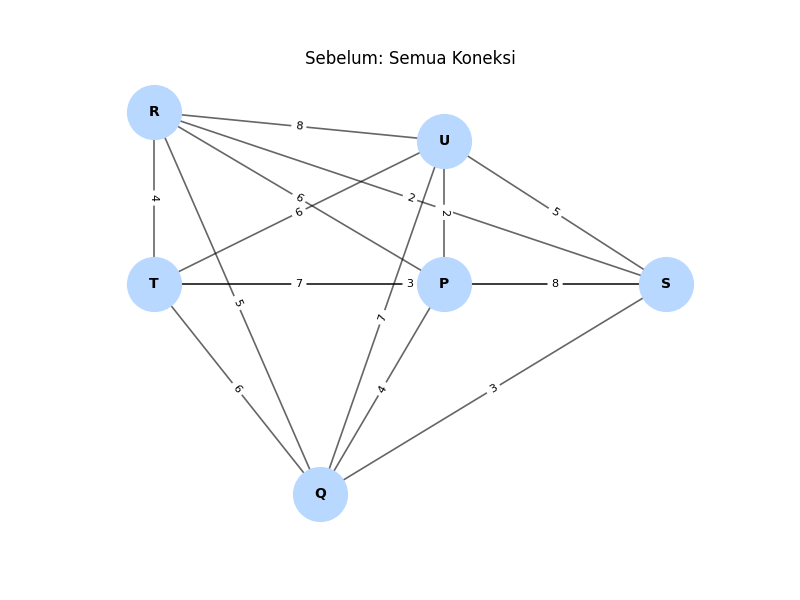
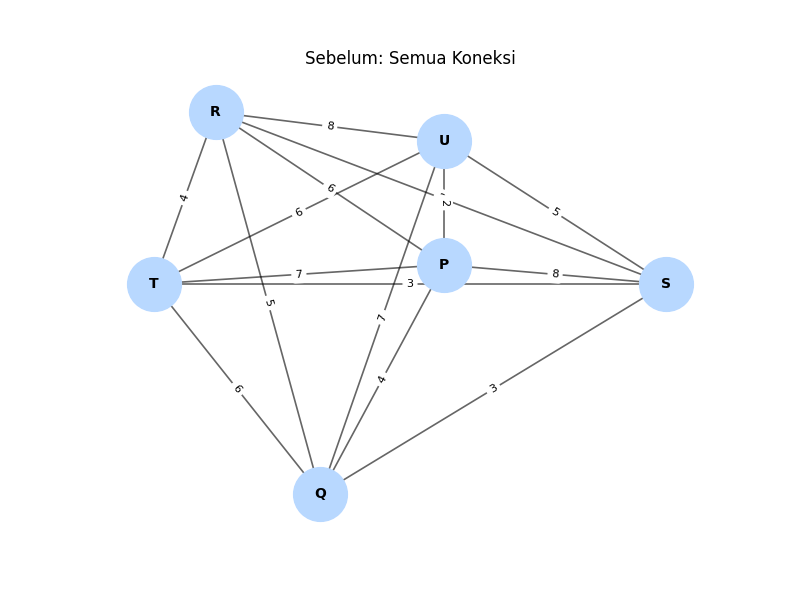
update figure 1 & 2 dan perbaikan kode

diff --git a/SA.py b/SA.py
@@ -30,10 +30,10 @@ for (a,b), d in w.items():
 
 # 3. Posisi node
 pos = {
-    'R': (-3.5, 2.2),    # Kiri atas (Futsal)
+    'R': (-2.5, 2.2),    # Kiri atas (Futsal)
     'U': (1.2, 1.9),     # Tengah-kanan atas (Freelance)
     'T': (-3.5, 0.4),    # Kiri tengah, vertikal dengan R (Nugas)
-    'P': (1.2, 0.4),     # Tengah kanan (Kos)
+    'P': (1.2, 0.6),     # Tengah kanan (Kos)
     'S': (4.8, 0.4),     # Paling kanan (Kopi)
     'Q': (-0.8, -1.8)    # Bawah tengah agak ke kiri (Kampus)
 }
